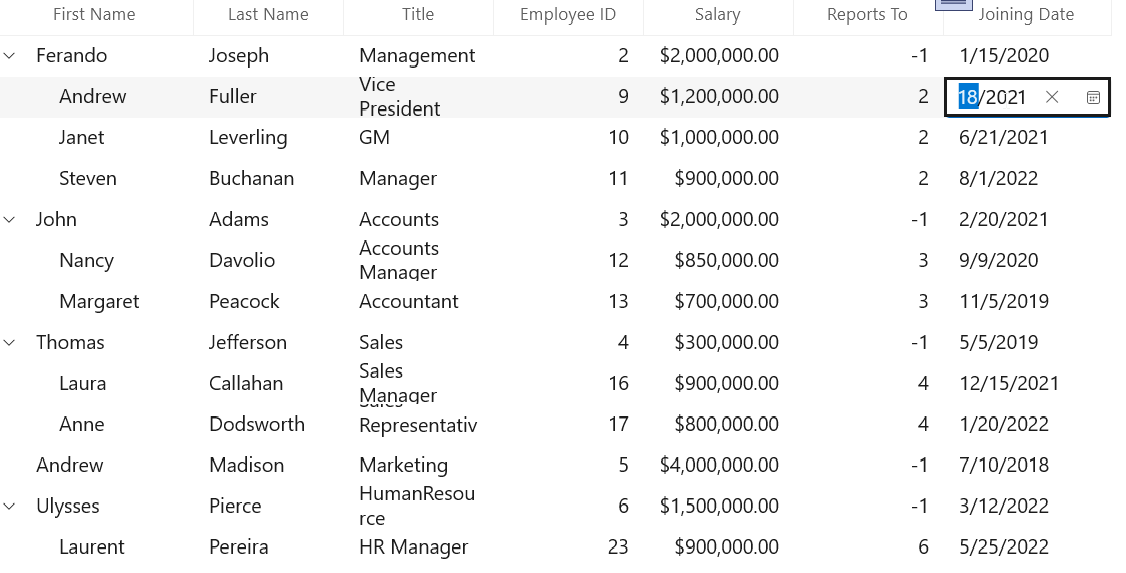
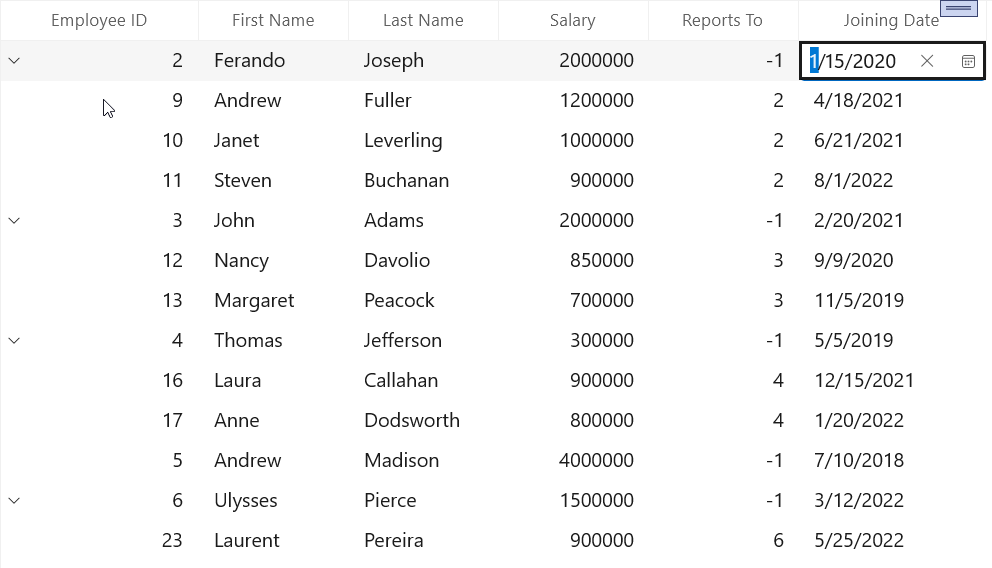
changes committed

diff --git a/winui/TreeGrid/ColumnTypes.md b/winui/TreeGrid/ColumnTypes.md
@@ -836,24 +836,26 @@ The behavior of the clear button depends on the [AllowNull](https://help.syncfus
 
 {% tabs %}
 {% highlight xaml %}
-<dataGrid:SfTreeGrid x:Name="dataGrid" 
-                       ItemsSource="{Binding Orders}"
-                       AutoGenerateColumns="False"
-                       AllowEditing="True" >
-    <dataGrid:SfTreeGrid.Columns>
-        <dataGrid:TreeGridTextColumn MappingName="First Name" HeaderText="First Name" />
-        <dataGrid:TreeGridTextColumn MappingName="Last Name" HeaderText="Last Name" />
-         <dataGrid:TreeGridTextColumn MappingName="Title" HeaderText="Title" />
-        <dataGrid:TreeGridNumericColumn MappingName="Employee ID" HeaderText="Employee ID" ShowClearButton="True" />
-        <dataGrid:TreeGridTextColumn MappingName="Salary" HeaderText="Salary" />
-        <dataGrid:TreeGridTextColumn MappingName="Reports To" HeaderText="Reports To" />
-         <dateGrid:TreeGridDateColumn MappingName="Joining Date" HeaderText="Joining Date"/>
-    </dataGrid:SfTreeGrid.Columns>
-</dataGrid:SfTreeGrid>
+<treeGrid:SfTreeGrid Name="sfTreeGrid"
+                        ChildPropertyName="ReportsTo"
+                        ParentPropertyName="ID"
+                        SelfRelationRootValue="-1"
+                        AutoExpandMode="AllNodesExpanded"
+                        ItemsSource="{Binding Employees}"
+                        AllowEditing="True">
+    <treeGrid:SfTreeGrid.Columns>
+        <treeGrid:TreeGridNumericColumn HeaderText="Employee ID" MappingName="ID" ShowClearButton="True"/>
+        <treeGrid:TreeGridTextColumn HeaderText="First Name" MappingName="FirstName" />
+        <treeGrid:TreeGridTextColumn HeaderText="Last Name" MappingName="LastName" />
+        <treeGrid:TreeGridNumericColumn HeaderText="Salary" MappingName="Salary" />
+        <treeGrid:TreeGridNumericColumn HeaderText="Reports To" MappingName="ReportsTo" />
+        <treeGrid:TreeGridDateColumn HeaderText="Joining Date" MappingName="JoiningDate" Width="150"/>
+    </treeGrid:SfTreeGrid.Columns>
+</treeGrid:SfTreeGrid>
 {% endhighlight %}
 {% endtabs %}
 
-<img src="Column-Type-images/winui-treegrid-NumericColumn-ShowClearButton.png" alt="WinUI TreeGrid DateColumn with Clear Button" width="100%" Height="Auto"/>
+<img src="Column-Type-images\winui-treegrid-NumericColumn-ShowClearButton.png" alt="WinUI TreeGrid NumericColumn with Clear Button" width="100%" Height="Auto"/>
 
 ### UpDown button placement
 
@@ -987,19 +989,22 @@ The behavior of the clear button depends on the [AllowNull](https://help.syncfus
 {% tabs %}
 {% highlight xaml %}
 <dataGrid:SfTreeGrid x:Name="dataGrid" 
-                       ItemsSource="{Binding Orders}"
-                       AutoGenerateColumns="False"
-                       AllowEditing="True" >
-    <dataGrid:SfTreeGrid.Columns>
-        <dataGrid:TreeGridTextColumn MappingName="FirstName" HeaderText="First Name" />
-        <dataGrid:TreeGridTextColumn MappingName="Last Name" HeaderText="Last Name" />
-        <dataGrid:TreeGridTextColumn MappingName="Title" HeaderText="Title" />
-        <dataGrid:TreeGridNumericColumn MappingName="Employee ID" HeaderText="EmployeeID" />
-        <dataGrid:TreeGridTextColumn MappingName="Salary" HeaderText="Salary"/>
-        <dataGrid:TreeGridTextColumn MappingName="Reports To" HeaderText="Reports To" />
-        <dateGrid:TreeGridDateColumn MappingName="Joining Date" HeaderText="Joining Date" ShowClearButton="True" />
-    </dataGrid:SfTreeGrid.Columns>
-</dataGrid:SfTreeGrid>
+<treeGrid:SfTreeGrid Name="sfTreeGrid"
+                        ChildPropertyName="ReportsTo"
+                        ParentPropertyName="ID"
+                        SelfRelationRootValue="-1"
+                        AutoExpandMode="AllNodesExpanded"
+                        ItemsSource="{Binding Employees}"
+                        AllowEditing="True">
+    <treeGrid:SfTreeGrid.Columns>
+        <treeGrid:TreeGridNumericColumn HeaderText="Employee ID" MappingName="ID"/>
+        <treeGrid:TreeGridTextColumn HeaderText="First Name" MappingName="FirstName" />
+        <treeGrid:TreeGridTextColumn HeaderText="Last Name" MappingName="LastName" />
+        <treeGrid:TreeGridNumericColumn HeaderText="Salary" MappingName="Salary" />
+        <treeGrid:TreeGridNumericColumn HeaderText="Reports To" MappingName="ReportsTo" />
+        <treeGrid:TreeGridDateColumn HeaderText="Joining Date" MappingName="JoiningDate" Width="150" ShowClearButton="True"/>
+    </treeGrid:SfTreeGrid.Columns>
+</treeGrid:SfTreeGrid>
 {% endhighlight %}
 {% endtabs %}
 

diff --git a/winui/DataGrid/Column-Types.md b/winui/DataGrid/Column-Types.md
@@ -969,7 +969,7 @@ You can restrict and display the input value within the range using [MinDate](ht
 The `GridDateColumn` provides a clear button feature that enables users to reset cell values during editing using the`ShowClearButton` property.
 When `ShowClearButton` is set to `True`, a clear button appears within the editor, providing users with a convenient way to clear the cell's value.
 
-#### AllowNull Behaviour
+#### AllowNull Behavior
 
 The behavior of the clear button depends on the [AllowNull](https://help.syncfusion.com/cr/winui/Syncfusion.UI.Xaml.DataGrid.GridDateColumn.html#Syncfusion_UI_Xaml_DataGrid_GridDateColumn_AllowNull) property:
 
